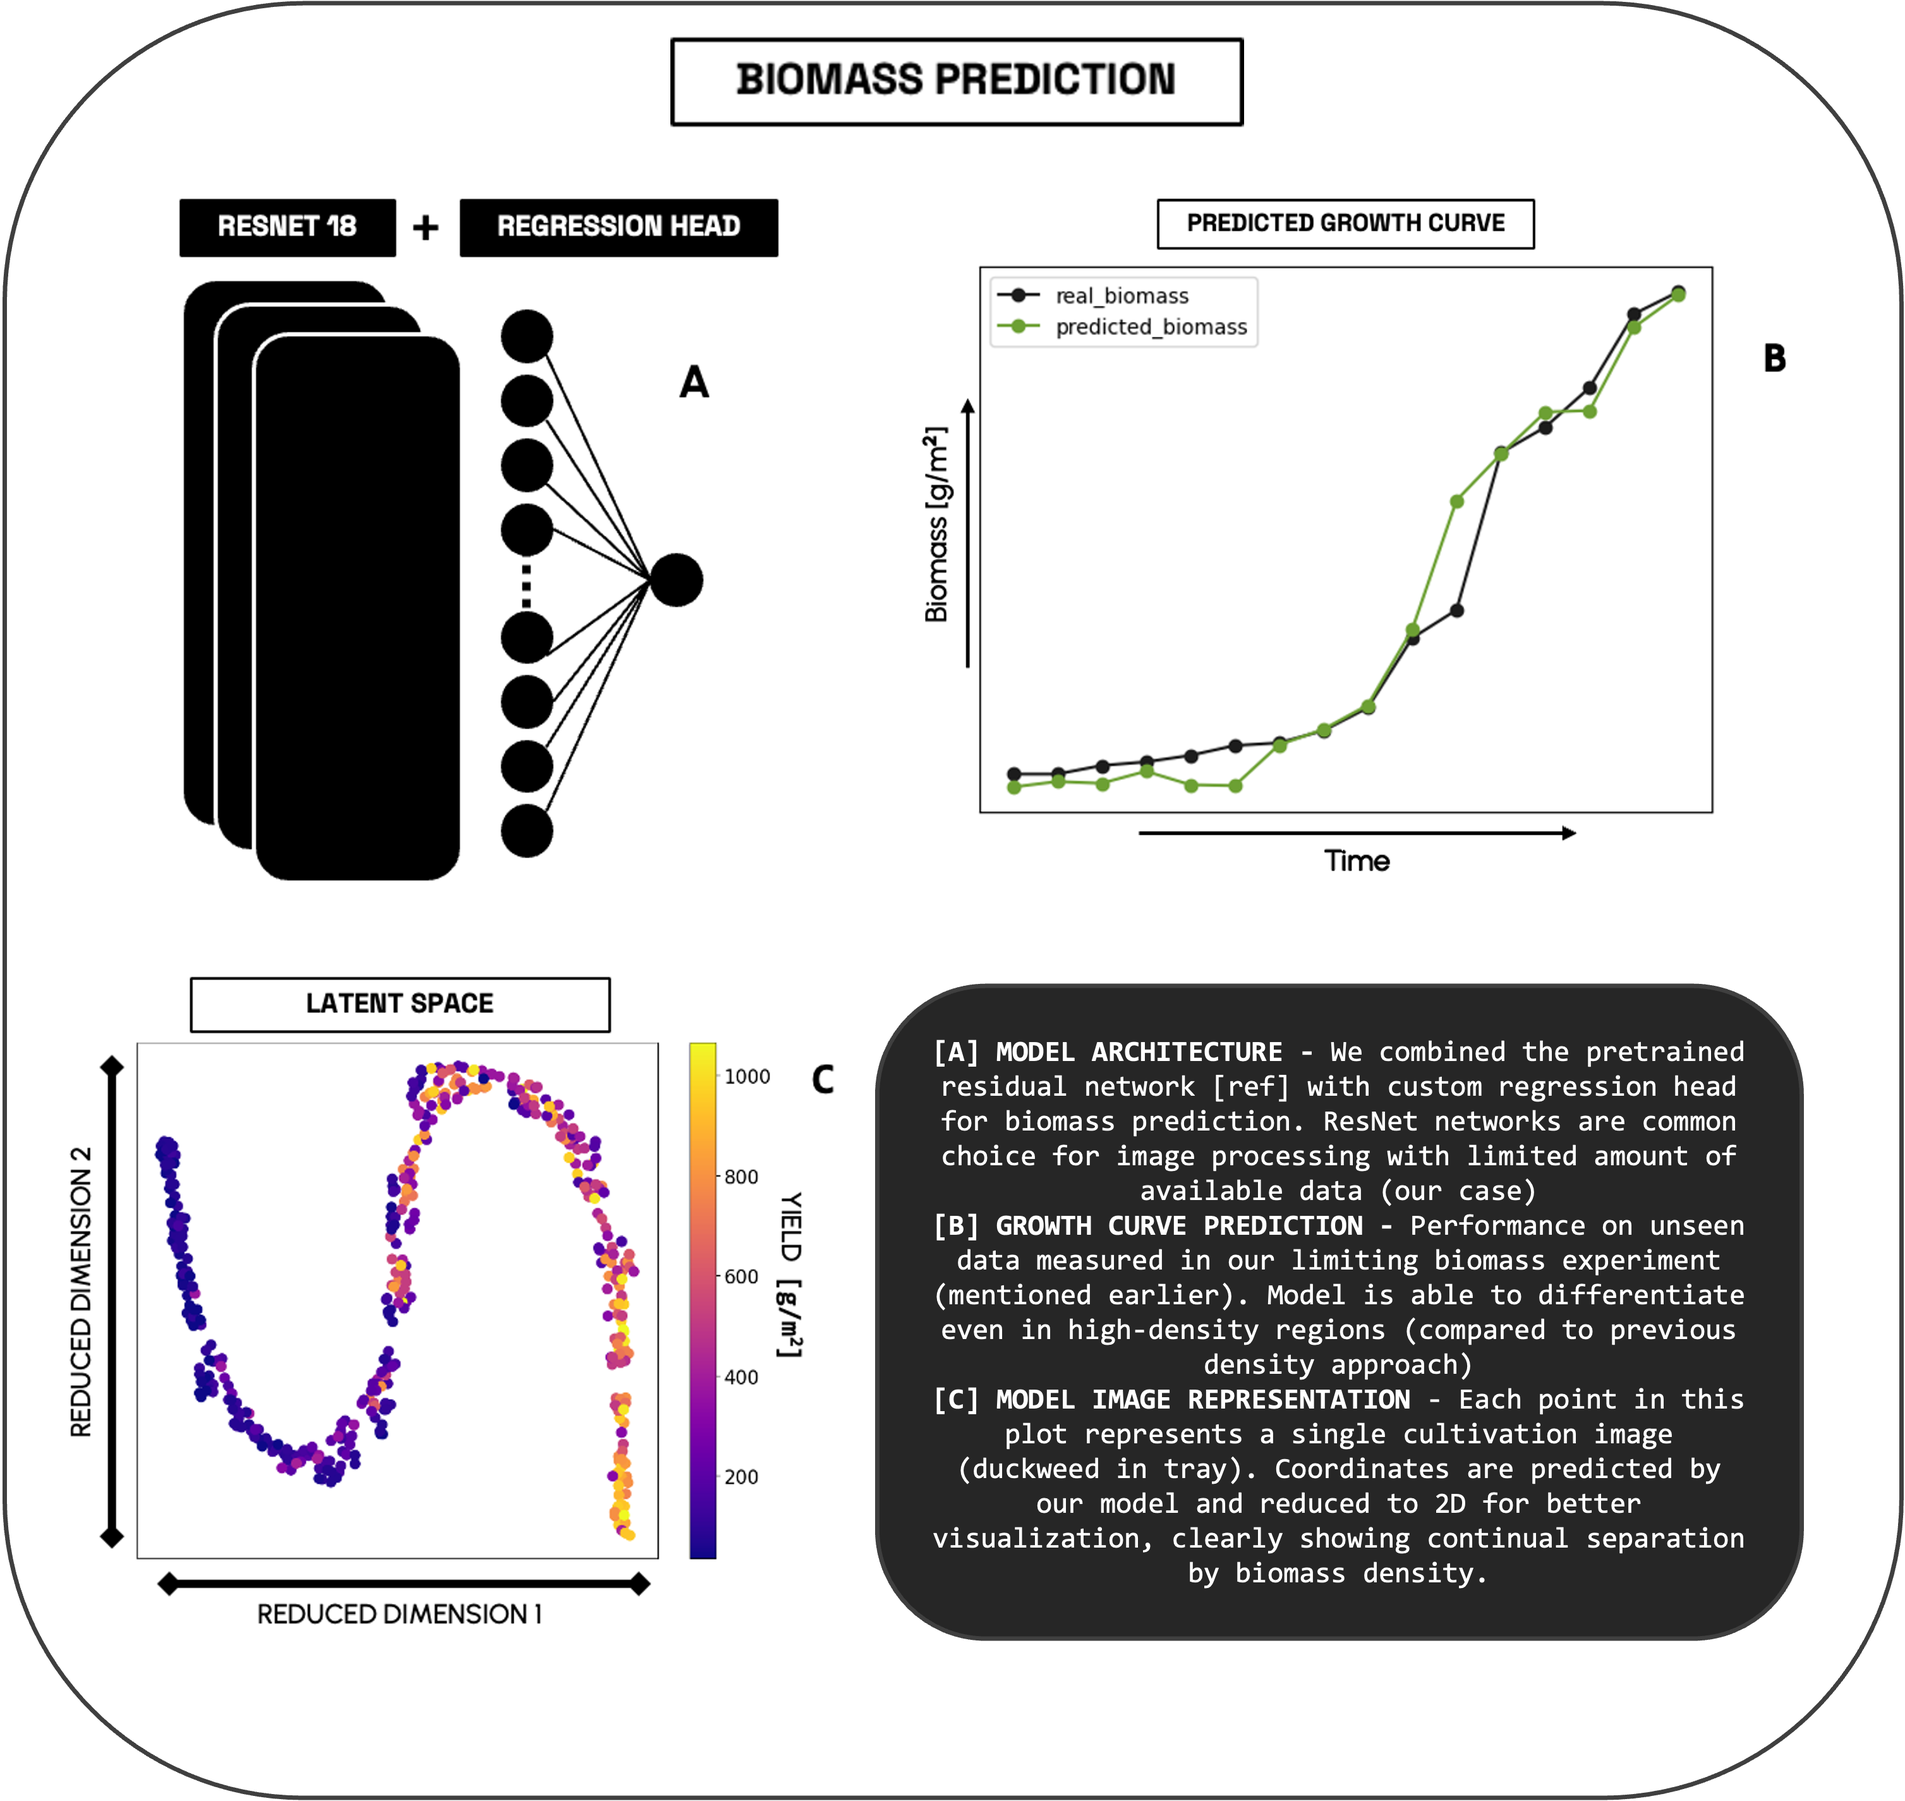
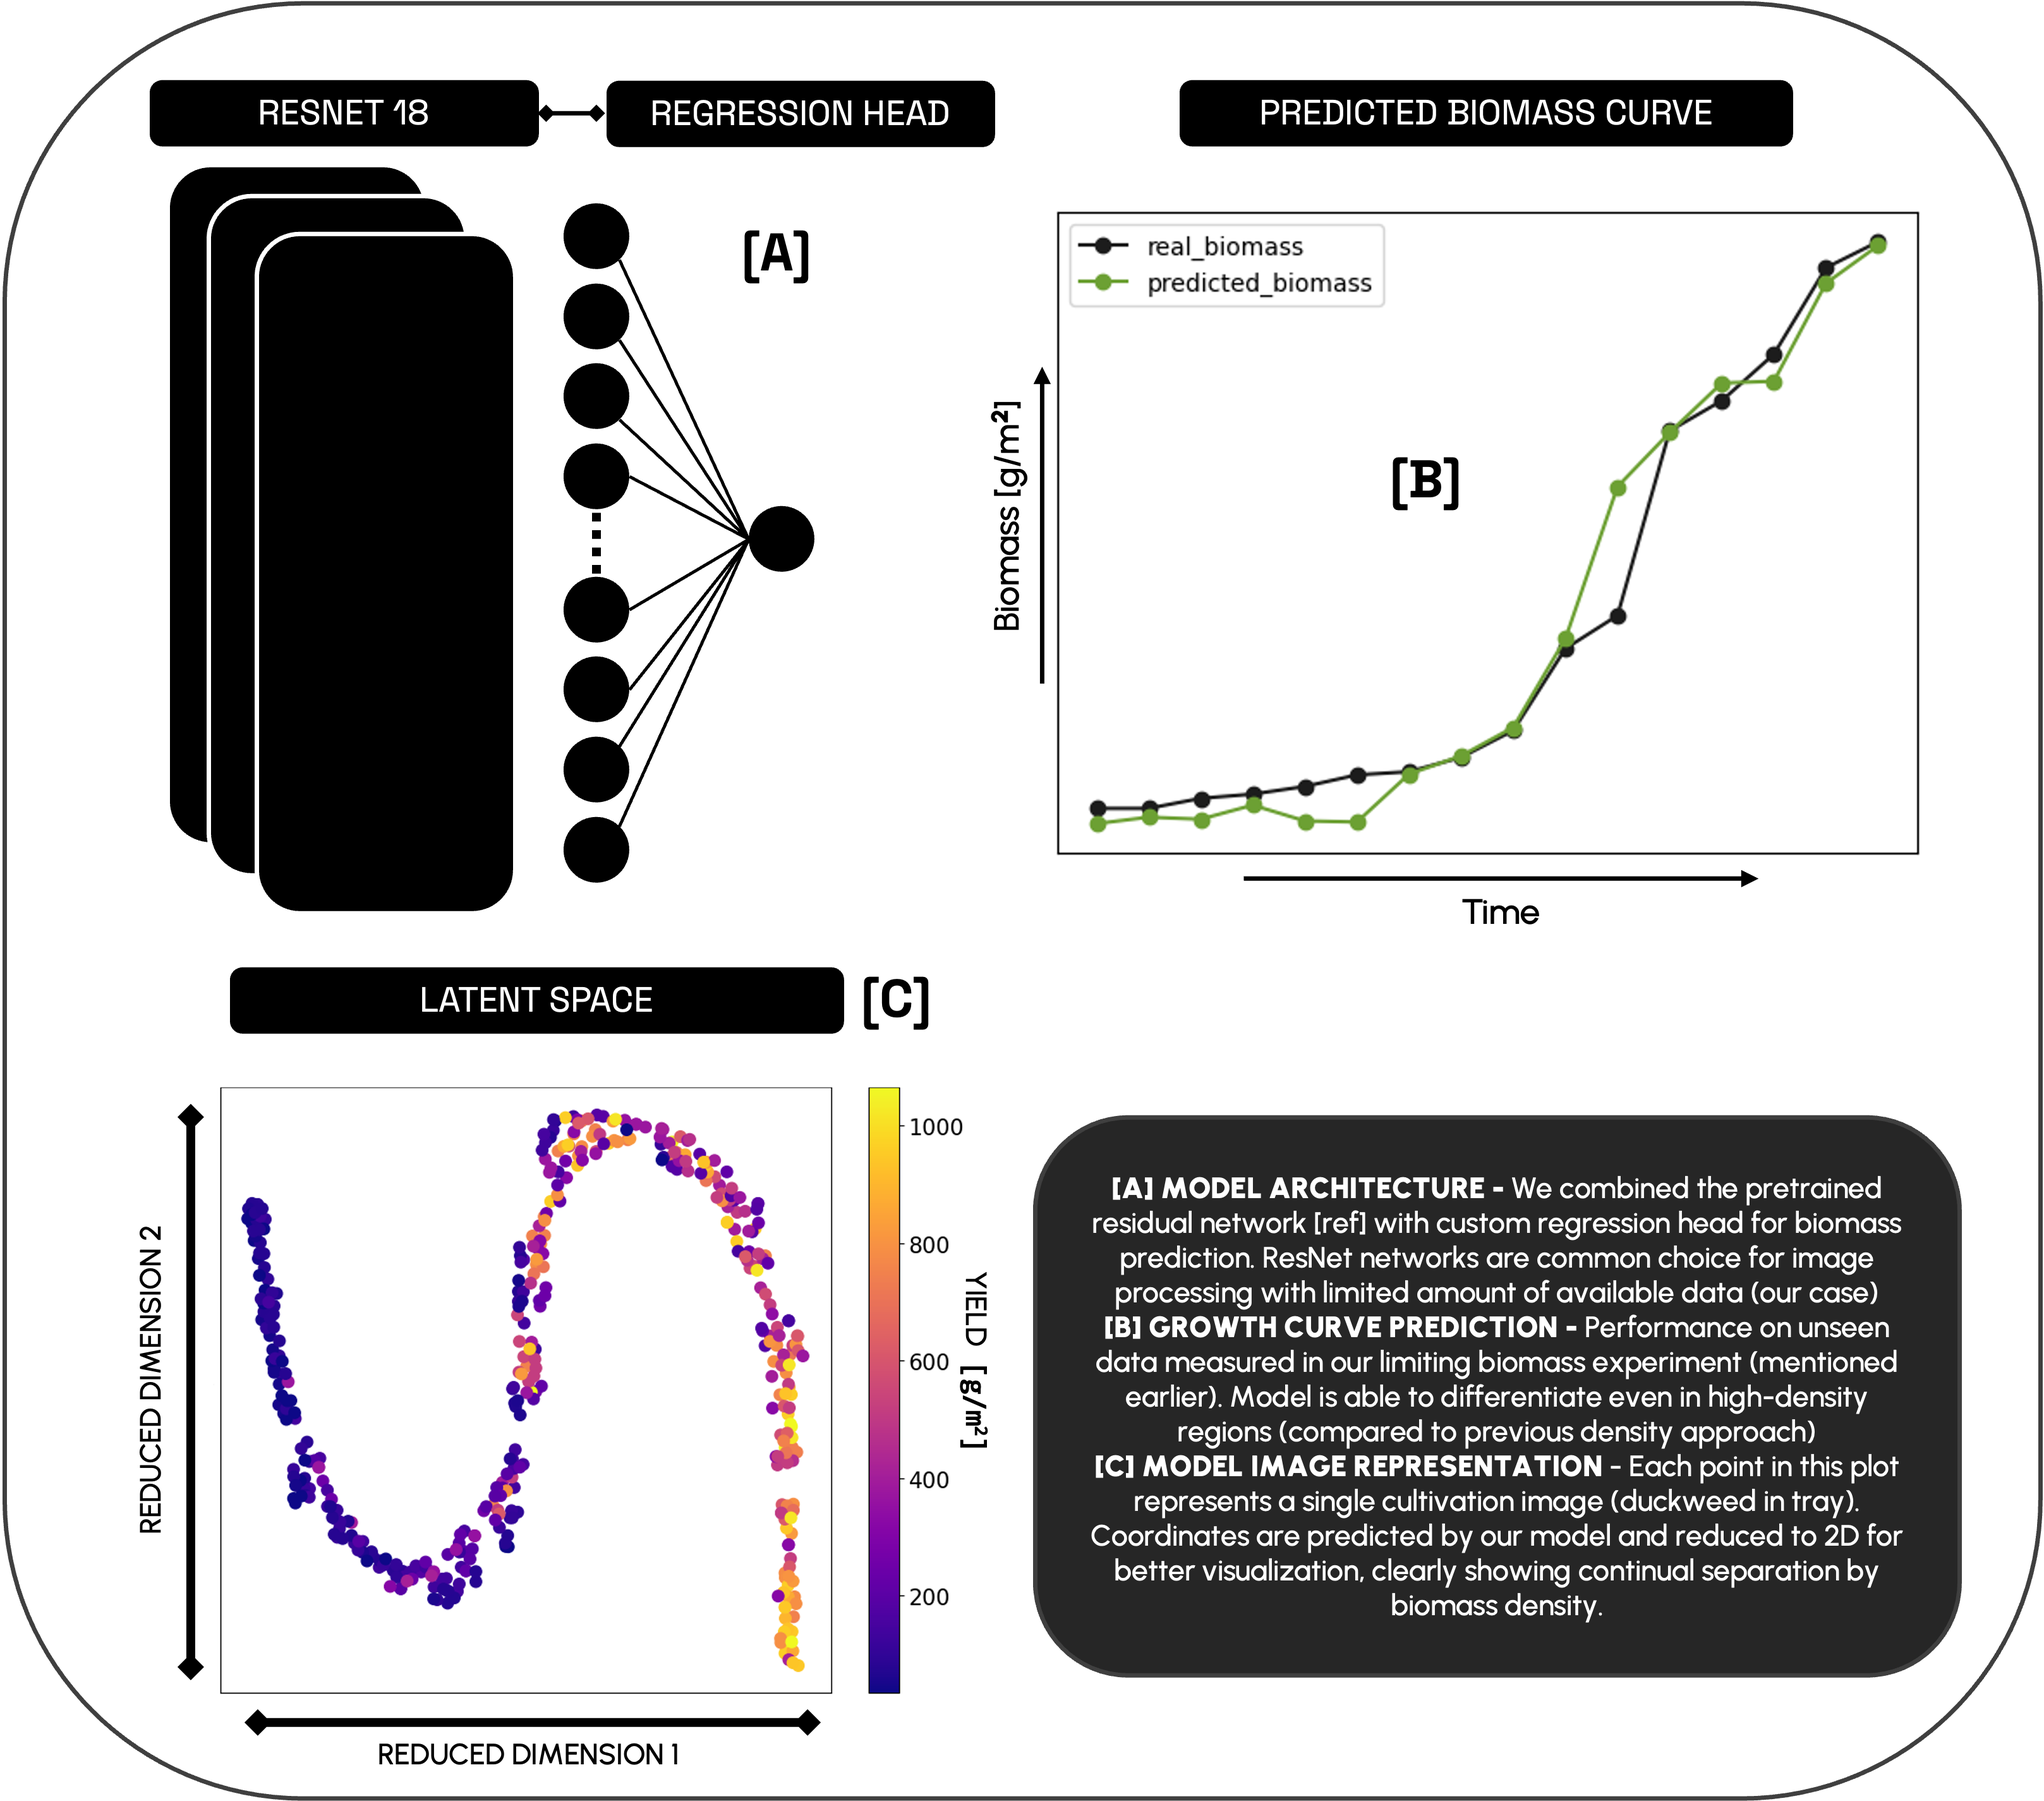
graphics update

diff --git a/README.md b/README.md
@@ -27,13 +27,15 @@
 
 ## Overview
 
-DUCKEYE is a versatile toolbox tailored for monitoring duckweed cultivation. It leverages machine learning to analyze images of duckweed, providing insights into water coverage and biomass prediction. The system is lightweight, requiring only a camera capable of sending images to a processing unit (e.g., a small laptop). For detailed hardware requirements, see the [Hardware Setup](#hardware-setup) section.
+DUCKEYE is a versatile toolbox tailored for monitoring duckweed cultivation. It leverages machine learning to analyze images of duckweed trays, estimating water coverage and biomass amount. The system is lightweight, requiring only a camera capable of sending images to a processing unit (e.g., a small laptop). For detailed hardware requirements, see the [Hardware Setup](#hardware-setup) section.
 
 ---
 
 ## How It Works
 
-DUCKEYE processes images of duckweed cultivation setups to estimate key parameters like water coverage and biomass. Using machine learning models, it analyzes raw images and generates detailed outputs stored in the `outputs` directory. The toolbox supports both local execution and a user-friendly web application, making it accessible for testing on mobile devices with cameras.
+DUCKEYE can process raw images (even taken by your phone) of any size. All images get resized to standardized input size for given processing tools. 
+
+DUCKEYE processes images of duckweed cultivation trays t. Using machine learning models, it analyzes raw images and generates detailed outputs stored in the `outputs` directory. The toolbox supports both local execution and a user-friendly web application, making it accessible for testing on mobile devices with cameras.
 
 ---
 
@@ -95,7 +97,7 @@ Customize your analysis with the following parameters:
 |-------------|-----------------------------------------------------------------------------|-------------------------------------|
 | `--name`    | Signature of the run (used to label output data)                            | User-defined string                 |
 | `--input`   | Name of the folder in `data/raw_images` containing raw images               | Folder name (e.g., `your_folder_name`) |
-| `--device`  | Hardware for computation                                                   | `CPU` (default), `CUDA` (NVIDIA GPU), `MPS` (Mac) |
+| `--device`  | Hardware for computation                                                   | `CPU` (default), `CUDA` (NVIDIA GPU), `MPS` (Mac GPU) |
 | `--eyes`    | Machine learning model to use                                              | `ALL` (default), `WC` (water coverage), `BP` (biomass prediction) |
 
 Example command with all parameters:
@@ -133,4 +135,4 @@ For detailed hardware recommendations, refer to the [iGEM BRNO team cultivator p
 
 ## License
 
-This project is licensed under the MIT License. See the [LICENSE](LICENSE) file for details.
+This project is licensed under the MIT License.
